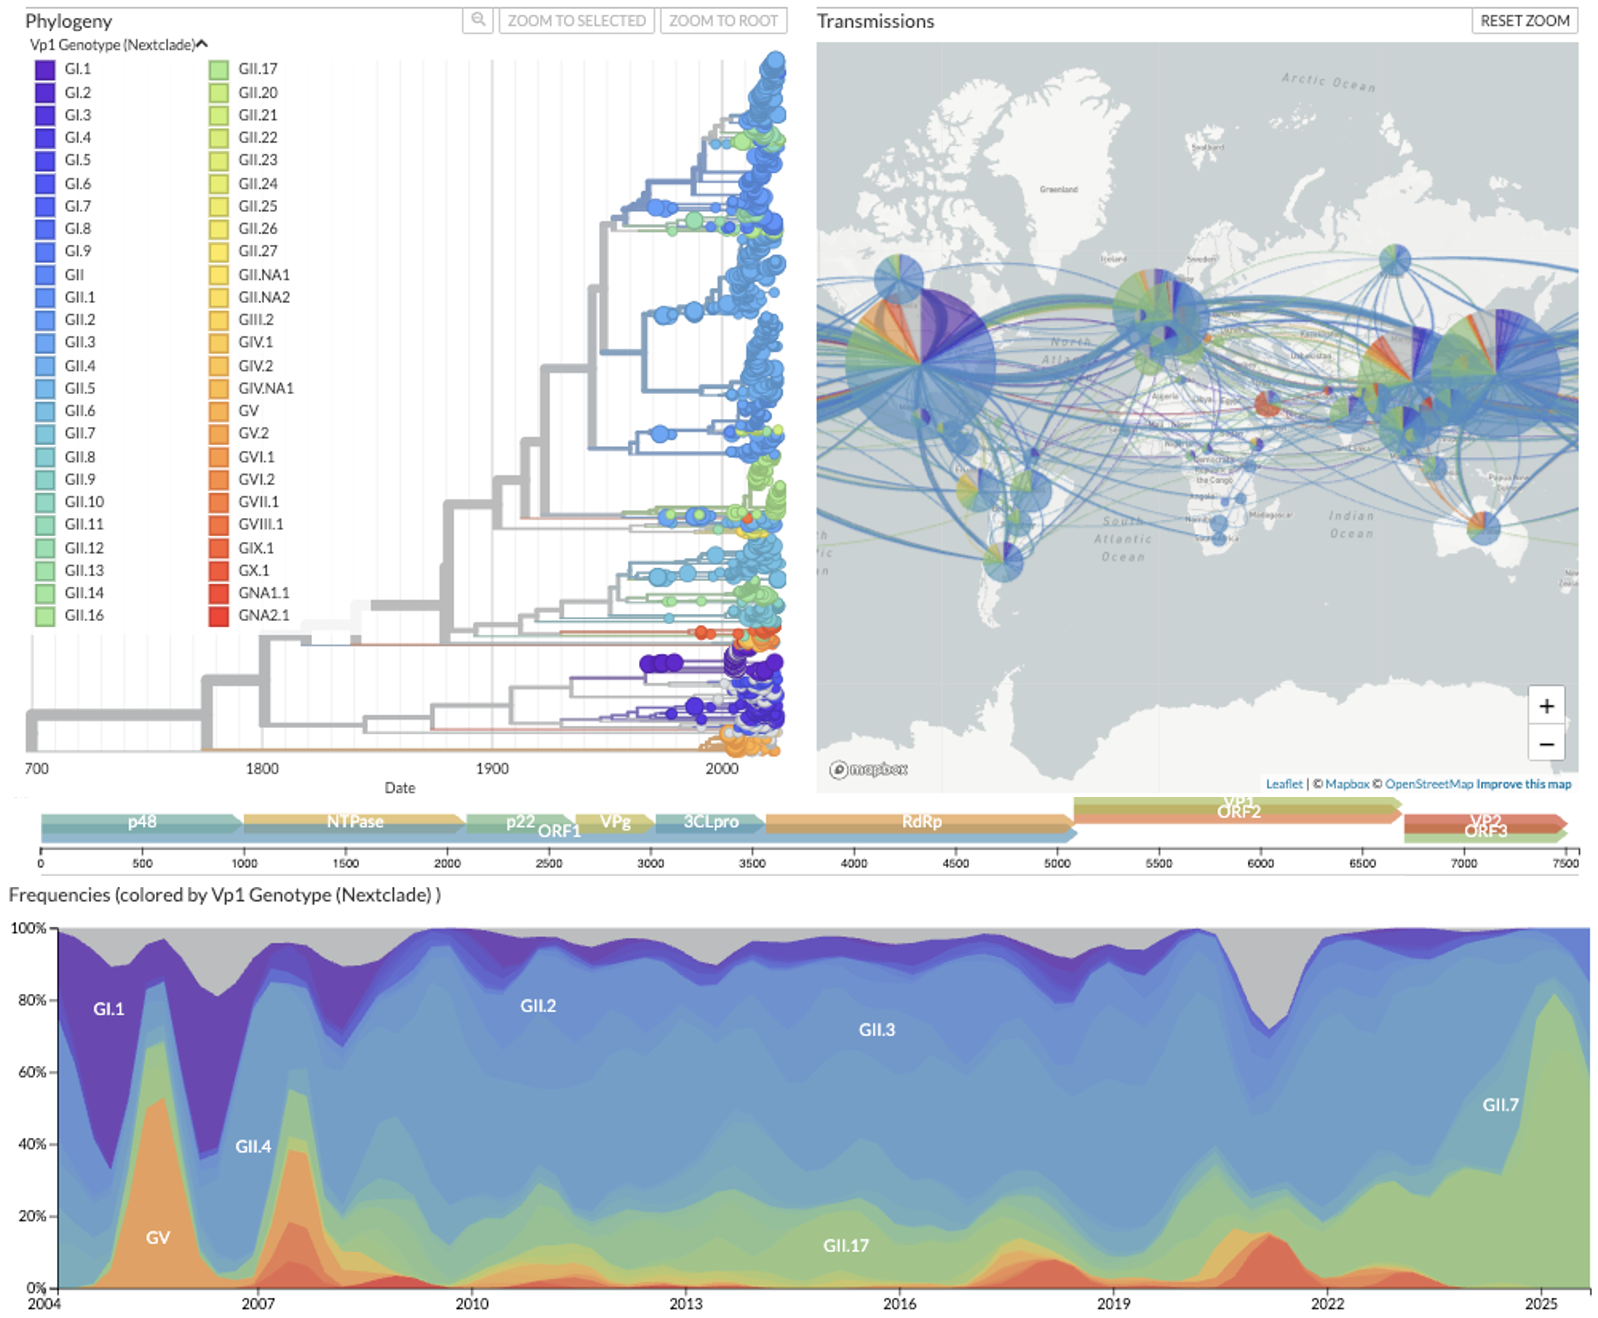
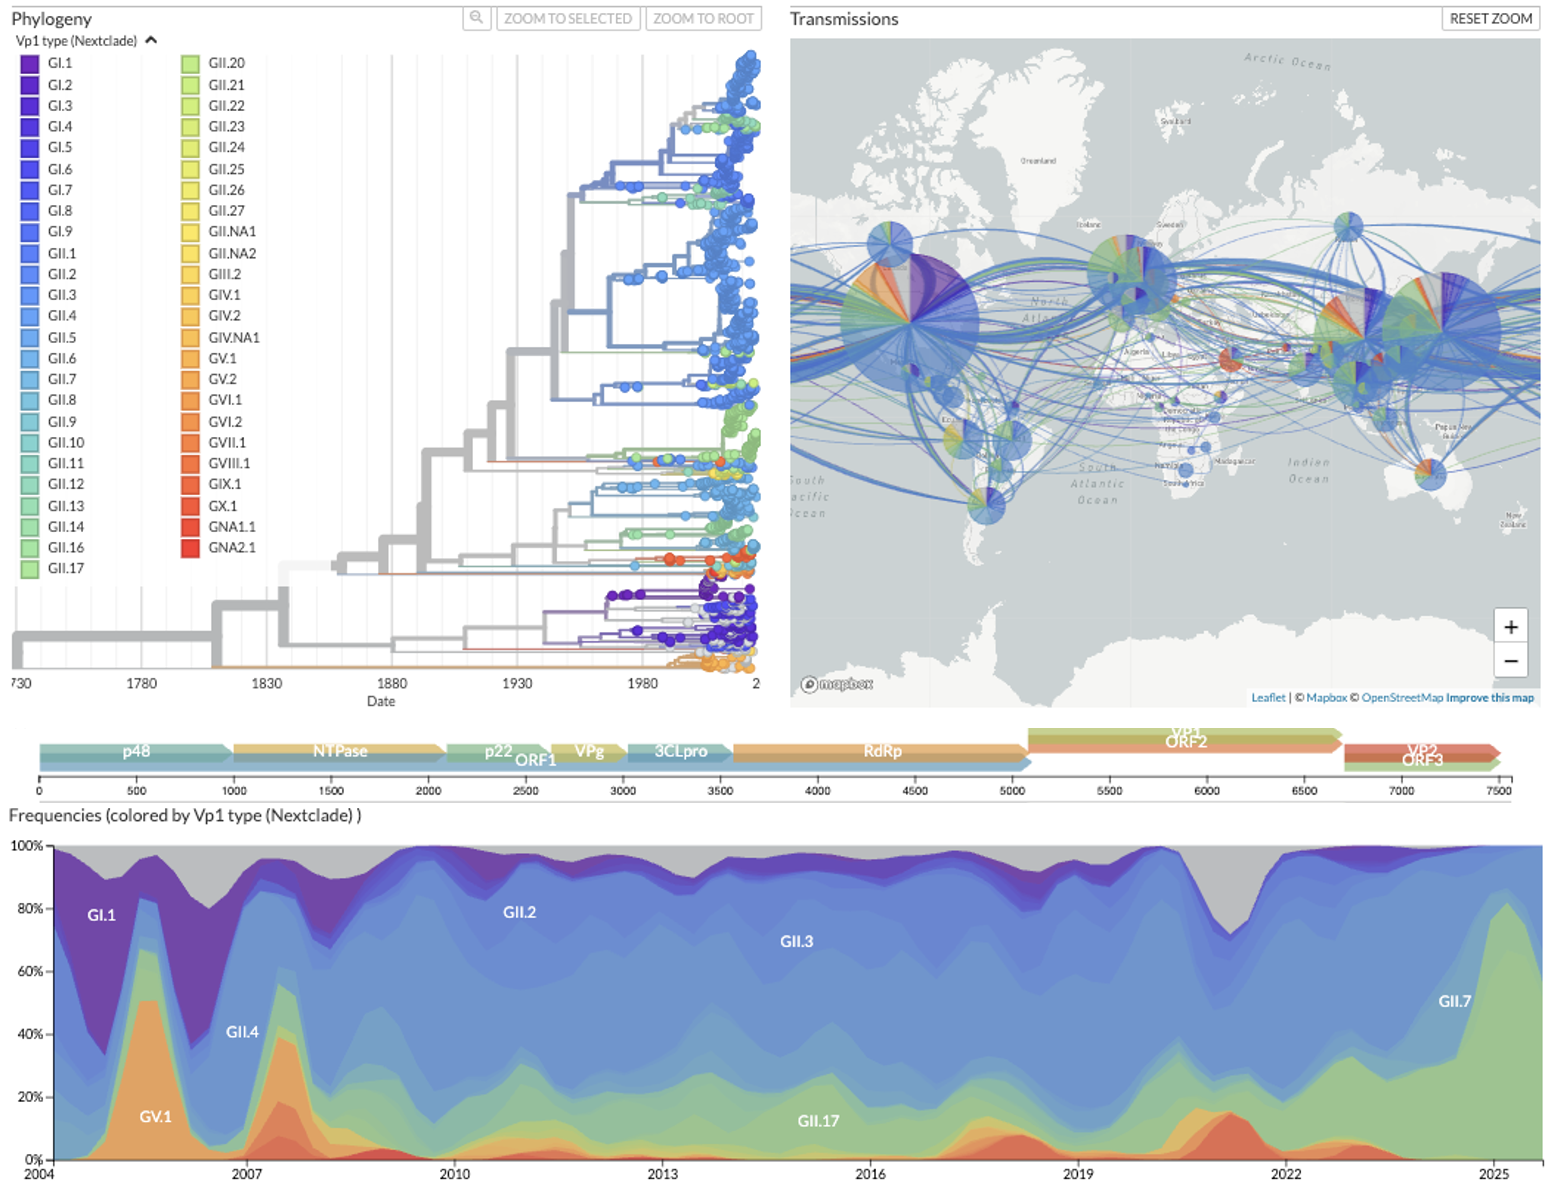
Norovirus: edits
* Drop nextclade dataset table
* Incorporate changes from suggestions and co-authors
* Drop unused links

diff --git a/static-site/content/blog/2025-12-31-norovirus.md b/static-site/content/blog/2025-12-31-norovirus.md
@@ -1,5 +1,5 @@
 ---
-author: "Jennifer Chang, Jover Lee, Kim Andrews, Allison Li, Katie Kistler, John Huddleston, Trevor Bedford"
+author: "Jennifer Chang, Jover Lee, Kim Andrews, James Hadfield, Allison Li, Katie Kistler, John Huddleston, Trevor Bedford"
 date: "2025-12-31"
 title: "New Resources for Norovirus"
 sidebarTitle: "Norovirus resources"
@@ -9,9 +9,7 @@ Historically called "winter vomiting disease" ([Adler and Zickl, 1969](https://d
 
 ## Phylogenetic analysis
 
-Nextstrain provides regularly updated phylogenetic monitoring of norovirus along several different facets. Since this is a highly recombining virus, we provide individual gene trees as well as the full genome tree of all norovirus samples, building off the prior effort of Allison Li and Katie Kistler and John Huddleston. They have also faceted the genome trees along important VP1 genogroups GII.2, GII.3, GII.4, GII.6 and GII.17. Therefore, as of the time of this writing, we provide 14 regularly updated views of norovirus evolution. We welcome feedback or requests if other groups or combinations are useful to the field.
-
-We maintain **14 views** of norovirus evolution:
+Nextstrain provides regularly updated phylogenetic monitoring of norovirus along several different facets. Since this is a highly recombining virus, we provide individual gene trees as well as the full genome tree of all norovirus samples, building off the prior effort of Allison Li and Katie Kistler and John Huddleston. They have also faceted the genome trees along important VP1 types GII.2, GII.3, GII.4, GII.6 and GII.17. Therefore, as of the time of this writing, we provide **14 regularly updated views** of norovirus evolution.
 
 | group | genome | p48 | NTPase | p22 | VPg | 3CLpro | RdRp | VP1 | VP2 |
 |:--|:--|:--|:--|:--|:--|:--|:--|:--|:--|
@@ -22,45 +20,30 @@ We maintain **14 views** of norovirus evolution:
 | GII.6 | [genome](https://nextstrain.org/norovirus/GII.6/genome) | | | | | | | | |
 | GII.17 | [genome](https://nextstrain.org/norovirus/GII.17/genome) | | | | | | | | |
 
- The combination of highly diverged and recombined sequences proved a challenge in rooting the phylogenetic trees, and **we advise that any results should be interpreted with caution**. Even so, the Nextstrain trees are provided as a broad summary of the genetic diversity and relatedness, and further biological interpretation may require targeted sampling, tuning of parameters, a different alignment reference, or focusing on particular gene combinations. The trees are being annotated by both VP1 and RdRp types. From the map, genotypes do not appear to be geographically segregated. From the frequency panel, we see indications that there are dynamics of leading types and it is not a virus that has reached genetic equilibrium of the proportion of those types.
+ The combination of highly diverged and recombined sequences proved a challenge in rooting the phylogenetic trees, and **we advise that any results should be interpreted with caution**. Even so, the Nextstrain trees are provided as a broad summary of the genetic diversity and relatedness, and further biological interpretation may require targeted sampling, tuning of parameters, a different alignment reference, or focusing on particular gene combinations. The trees are being annotated by both VP1 and RdRp types. From the map, norovirus types do not appear to be geographically segregated. From the frequency panel, we see indications that there are dynamics of leading types and it is not a virus that has reached genetic equilibrium of the proportion of those types.
 
 ![Figure 1](/blog/img/norovirus-all-genome-view.png)
-**Figure 1. Norovirus is globally distributed and highly divergent.** Phylogenetic trees are annotated by both VP1 and RdRp types, host, country, date, genome and gene coverage percentages. The full genome tree is shown here. From the map, genotypes do not appear to be geographically segregated. From the frequency panel, we see indications that there are dynamics of leading types and it is not a virus that has reached genetic equilibrium of the proportion of those types.
+**Figure 1. Norovirus is globally distributed and highly divergent.** Phylogenetic trees are annotated by both VP1 and RdRp types, host, country, date, genome and gene coverage percentages. The full genome tree is shown here. From the map, norovirus types do not appear to be geographically segregated. From the frequency panel, we see indications that there are dynamics of leading types and it is not a virus that has reached genetic equilibrium of the proportion of those types.
 
 ## Norovirus groups, types, and variants
 
-Norovirus samples have a dual-typing system based on a polymerase region (RdRp) and capsid region (VP1) of the genome, between which is a known recombination site. The resolution of norovirus typing has undergone multiple changes ([Zheng et al., 2006](https://doi.org/10.1016/j.virol.2005.11.015); [Eden et al., 2013](https://doi.org/10.1128/jvi.03464-12); [Chhabra et al., 2019](https://doi.org/10.1099/jgv.0.001318); [Tatusov et al., 2020](https://doi.org/10.1016/j.jcv.2020.104718)), but generally are split into a "genogroup", "genotype", and "variant" classification for VP1 (and "P-group", "P-type", and "variant" for RdRp).
+Norovirus samples have a dual-typing system based on a polymerase region (RdRp) and capsid region (VP1) of the genome, between which is a known recombination site. The resolution of norovirus typing has undergone multiple changes ([Zheng et al., 2006](https://doi.org/10.1016/j.virol.2005.11.015); [Eden et al., 2013](https://doi.org/10.1128/jvi.03464-12); [Chhabra et al., 2019](https://doi.org/10.1099/jgv.0.001318); [Tatusov et al., 2020](https://doi.org/10.1016/j.jcv.2020.104718)), but generally are split into a "genogroup", "genotype", and "variant" classification for VP1, and "P-group", "P-type", and "variant" for RdRp. For the sake of naming Nextstrain trees, we will name these VP1 group, type, or variants and RdRp group, type or variants respectively.
 
 ![Figure 2](/blog/img/norovirus-group-type-variant.png)
 **Figure 2. Typing of norovirus samples is based on the VP1 and RdRp region** and are further split out into group, type, and variant resolution.
 
-We provide 2 Nextclade datasets (either VP1 or RdRp) which each provide group, type, and variant levels of resolution for clade coloring. The Norovirus nextclade datasets are preliminary and can use further development depending on future funding or priorities. Scaffold strains for the norovirus lineage systems are consistently updated at https://calicivirustypingtool.cdc.gov/becerance.cgi and these Nextclade datasets were built with the version available on September 16, 2025.
-
-| Scope | Draft nextclade dataset | Scaffold tree |Reference |
-|:--|:--|:--|:--|
-| VP1  | [norovirus/VP1][] | [scaffold tree for VP1][]| [MK073894][] (GII.4)|
-| RdRp | [norovirus/RdRp][] | [scaffold tree for RdRp][]| [MK073894][] (GII.4)|
+Group, type, and variant levels of resolution were roughly classified by a preliminary Nextclade datasets based on either VP1 or RdRp gene. The Norovirus nextclade datasets are preliminary and further development is pending. These datasets have been built from scaffold strains listed at the [Human Calicivirus Typing Tool](https://calicivirustypingtool.cdc.gov/becerance.cgi) as of September 16, 2025.
 
 ![Figure 3](/blog/img/norovirus-nextclade-results.png)
-**Figure 3. Typing of norovirus samples is based on the VP1 and RdRp region** and are further split out into group, type, and variant resolution.
+**Figure 3. Preliminary norovirus classification into Group, Type, and Variant columns.**
 
 ## Nextstrain resources
 
 We curate sequence data and metadata from NCBI as the starting point
-for our analyses. Curated sequences and metadata are available as flat
-files at:
+for our analyses. We provide snapshots of the exact curated sequences and metadata for norovirus workflows at:
 
-* [data.nextstrain.org/files/workflows/norovirus/metadata.tsv.zst](https://data.nextstrain.org/files/workflows/norovirus/metadata.tsv.zst)
-* [data.nextstrain.org/files/workflows/norovirus/sequences.fasta.zst](https://data.nextstrain.org/files/workflows/norovirus/sequences.fasta.zst)
+* [https://nextstrain.org/pathogens/files?filter=norovirus](https://nextstrain.org/pathogens/files?filter=norovirus)
 
 ## Acknowledgments & request for comments
 
 We welcome comments or suggestions from norovirus researchers to improve these Nextstrain and Nextclade datasets. Special thanks for feedback from Chao-Yang Pan and Erik Wolfsohn for answering questions and providing some biological context.
-
-[nextstrain.org/norovirus]: https://nextstrain.org/norovirus
-[nextstrain.org/norovirus/all/genome]: https://nextstrain.org/norovirus/all/genome
-[norovirus/VP1]: https://clades.nextstrain.org/?dataset-url=https://github.com/nextstrain/norovirus/tree/main/nextclade_data/VP1
-[norovirus/RdRp]: https://clades.nextstrain.org/?dataset-url=https://github.com/nextstrain/norovirus/tree/main/nextclade_data/RdRp
-[scaffold tree for VP1]: https://next.nextstrain.org/fetch/raw.githubusercontent.com/nextstrain/norovirus/main/nextclade_data/VP1/tree.json?d=tree&p=full
-[scaffold tree for RdRp]: https://next.nextstrain.org/fetch/raw.githubusercontent.com/nextstrain/norovirus/main/nextclade_data/RdRp/tree.json?d=tree&p=full
-[MK073894]: https://www.ncbi.nlm.nih.gov/nuccore/MK073894
